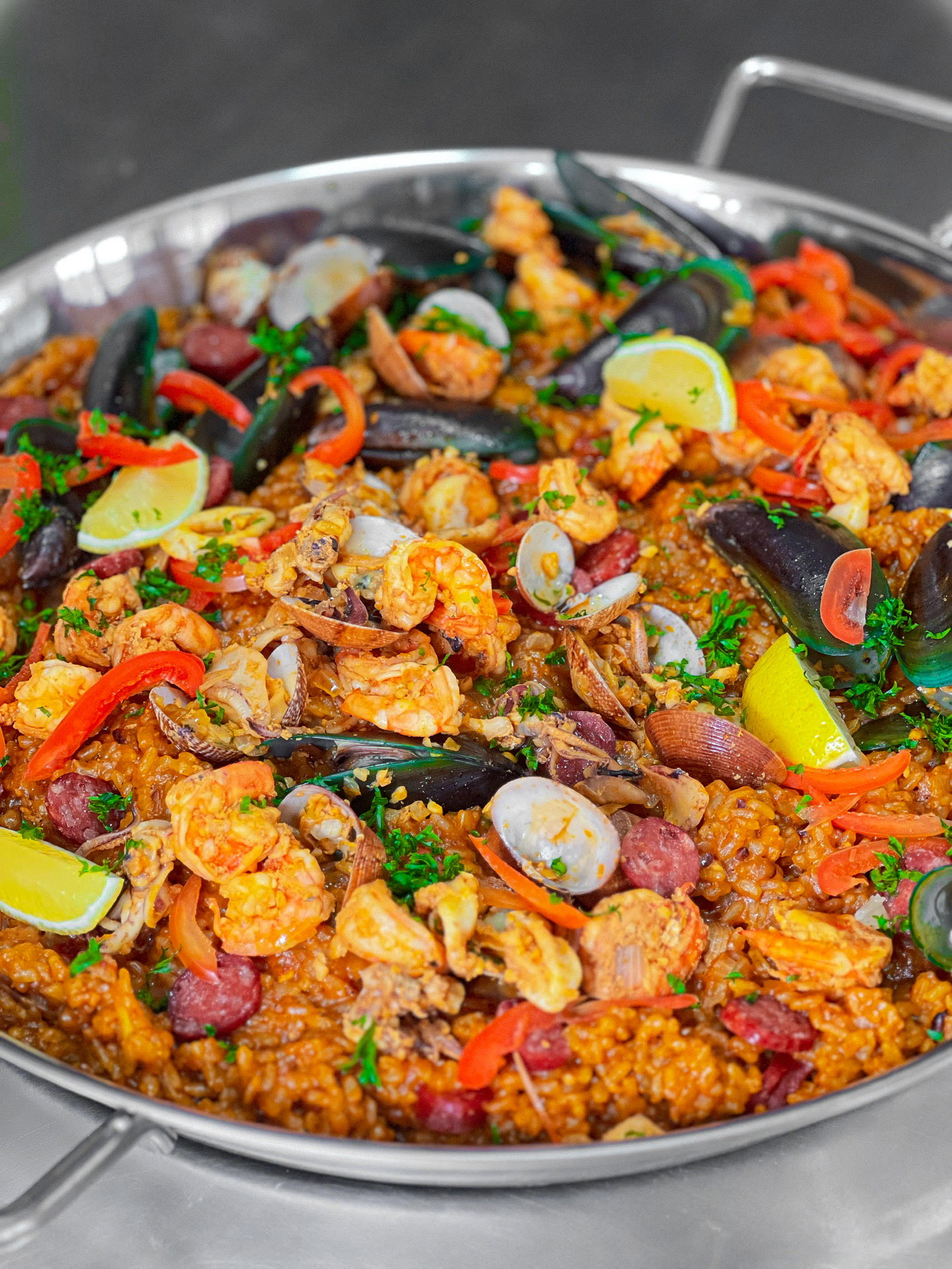
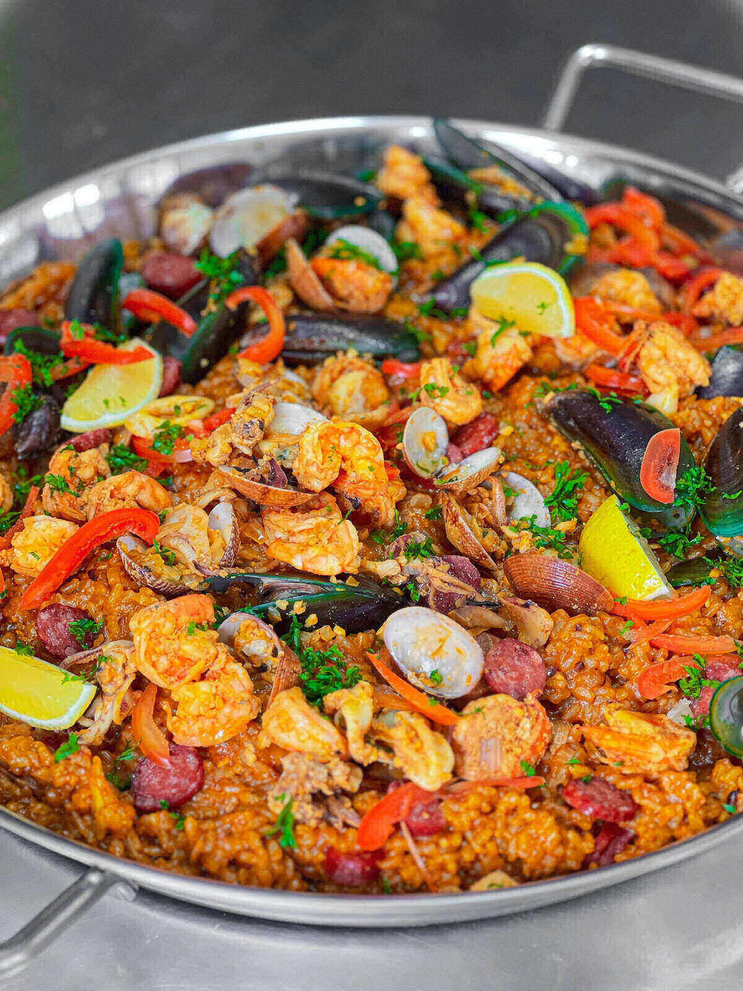
Publish approved site updates with compressed menu images.
Replace the large catering menu PNGs with JPEG and WebP, add the missing menu page image, and keep the splash button plus sticky Call, Messenger, Viber, and landline links.

diff --git a/catering.html b/catering.html
@@ -37,15 +37,47 @@ src="https://www.facebook.com/tr?id=8562493860536939&ev=PageView&noscript=1"
 </head>
 
 <body style="margin-bottom: 30px; background-color: black;">
+
+    <div class="quick-contact" style="position:sticky;top:0;z-index:100;background:#111;padding:12px 16px;display:flex;flex-wrap:wrap;gap:10px;justify-content:center;align-items:center;">
+        <a href="tel:+639093622192" style="display:inline-block;padding:10px 16px;background:#2e7d32;color:#fff;border-radius:6px;text-decoration:none;font-weight:700;font-family:Montserrat,sans-serif;font-size:14px;">Call 0909 362 2192</a>
+        <a href="https://m.me/boodiesbistro" target="_blank" rel="noopener" style="display:inline-block;padding:10px 16px;background:#0084ff;color:#fff;border-radius:6px;text-decoration:none;font-weight:700;font-family:Montserrat,sans-serif;font-size:14px;">Message on Messenger</a>
+        <a href="viber://chat?number=%2B639691693007" style="display:inline-block;padding:10px 16px;background:#7360f2;color:#fff;border-radius:6px;text-decoration:none;font-weight:700;font-family:Montserrat,sans-serif;font-size:14px;">Viber 0969 169 3007</a>
+        <a href="tel:+63344458462" style="display:inline-block;padding:10px 16px;background:#444;color:#fff;border-radius:6px;text-decoration:none;font-weight:600;font-family:Montserrat,sans-serif;font-size:13px;">Landline 034-4458462</a>
+    </div>
+
     <div class="image-container">
-        <img style="padding: 40px; max-width: 100%;" src="cateringmenu/page1.png" alt="Menu">
-        <img style="padding: 40px; max-width: 100%;" src="cateringmenu/page2.png" alt="Menu">
-		<img style="padding: 40px; max-width: 100%;" src="cateringmenu/page3.png" alt="Menu">
-        <img style="padding: 40px; max-width: 100%;" src="cateringmenu/page4.png" alt="Menu">
-        <img style="padding: 40px; max-width: 100%;" src="cateringmenu/page5.png" alt="Menu">
-        <img style="padding: 40px; max-width: 100%;" src="cateringmenu/page6.png" alt="Menu">
-        <img style="padding: 40px; max-width: 100%;" src="cateringmenu/page7.png" alt="Menu">
-        <img style="padding: 40px; max-width: 100%;" src="cateringmenu/page8.png" alt="Menu">
+        <picture>
+            <source srcset="cateringmenu/page1.webp" type="image/webp">
+            <img style="padding: 40px; max-width: 100%;" src="cateringmenu/page1.jpg" alt="Catering Menu" loading="lazy">
+        </picture>
+        <picture>
+            <source srcset="cateringmenu/page2.webp" type="image/webp">
+            <img style="padding: 40px; max-width: 100%;" src="cateringmenu/page2.jpg" alt="Catering Menu" loading="lazy">
+        </picture>
+        <picture>
+            <source srcset="cateringmenu/page3.webp" type="image/webp">
+            <img style="padding: 40px; max-width: 100%;" src="cateringmenu/page3.jpg" alt="Catering Menu" loading="lazy">
+        </picture>
+        <picture>
+            <source srcset="cateringmenu/page4.webp" type="image/webp">
+            <img style="padding: 40px; max-width: 100%;" src="cateringmenu/page4.jpg" alt="Catering Menu" loading="lazy">
+        </picture>
+        <picture>
+            <source srcset="cateringmenu/page5.webp" type="image/webp">
+            <img style="padding: 40px; max-width: 100%;" src="cateringmenu/page5.jpg" alt="Catering Menu" loading="lazy">
+        </picture>
+        <picture>
+            <source srcset="cateringmenu/page6.webp" type="image/webp">
+            <img style="padding: 40px; max-width: 100%;" src="cateringmenu/page6.jpg" alt="Catering Menu" loading="lazy">
+        </picture>
+        <picture>
+            <source srcset="cateringmenu/page7.webp" type="image/webp">
+            <img style="padding: 40px; max-width: 100%;" src="cateringmenu/page7.jpg" alt="Catering Menu" loading="lazy">
+        </picture>
+        <picture>
+            <source srcset="cateringmenu/page8.webp" type="image/webp">
+            <img style="padding: 40px; max-width: 100%;" src="cateringmenu/page8.jpg" alt="Catering Menu" loading="lazy">
+        </picture>
     </div>
 
     <!-- Footer -->
@@ -61,7 +93,7 @@ src="https://www.facebook.com/tr?id=8562493860536939&ev=PageView&noscript=1"
             <div class="copyright">
                 <h3>Our Socials</h3>
                 <ul class="icons">
-                    <li><a href="#" class="icon fa-twitter"><span class="label">Twitter</span></a></li>
+                    
                     <li><a href="https://facebook.com/boodiesbistro" class="icon fa-facebook"><span class="label">Facebook</span></a></li>
                     <li><a href="https://instagram.com/boodiesbistro" class="icon fa-instagram"><span class="label">Instagram</span></a></li>
                 </ul>

diff --git a/index.html b/index.html
@@ -39,58 +39,58 @@ src="https://www.facebook.com/tr?id=8562493860536939&ev=PageView&noscript=1"
 
 						<!-- Column 1 (horizontal, vertical, horizontal, vertical) -->
 							<div class="image fit">
-								<a><img src="pics/4.jpg" alt="" width="800" height="533"></a>
+								<a href="menu.html"><img src="pics/4.jpg" alt="" width="800" height="533"></a>
 							</div>
 							<div class="image fit">
-								<a><img src="pics/2.jpg" alt="" width="533" height="800"></a>
+								<a href="menu.html"><img src="pics/2.jpg" alt="" width="533" height="800"></a>
 							</div>
 							<div class="image fit">
-								<a><img src="pics/seafood2.jpg" alt="" width="800" height="533"></a>
+								<a href="menu.html"><img src="pics/seafood2.jpg" alt="" width="800" height="533"></a>
 							</div>
 							<div class="image fit">
-								<a><img src="pics/8.jpg" alt="" width="533" height="800"></a>
+								<a href="menu.html"><img src="pics/8.jpg" alt="" width="533" height="800"></a>
 							</div>
 
 						<!-- Column 2 (vertical, horizontal, vertical, horizontal) -->
 							<div class="image fit">
-								<a><img src="pics/steak.jpg" alt="" width="533" height="800"></a>
+								<a href="menu.html"><img src="pics/steak.jpg" alt="" width="533" height="800"></a>
 							</div>
 							<div class="image fit">
-								<a><img src="pics/10.jpg" alt="" width="800" height="533"></a>
+								<a href="menu.html"><img src="pics/10.jpg" alt="" width="800" height="533"></a>
 							</div>
 							<div class="image fit">
-								<a><img src="pics/5.jpg" alt="" width="533" height="800"></a>
+								<a href="menu.html"><img src="pics/5.jpg" alt="" width="533" height="800"></a>
 							</div>
 							<div class="image fit">
-								<a><img src="pics/resto1.jpg" alt="" width="800" height="533"></a>
+								<a href="menu.html"><img src="pics/resto1.jpg" alt="" width="800" height="533"></a>
 							</div>
 
 						<!-- Column 3 (horizontal, vertical, horizontal, vertical) -->
 							<div class="image fit">
-								<a><img src="pics/7.jpg" alt="" width="800" height="533"></a>
+								<a href="menu.html"><img src="pics/7.jpg" alt="" width="800" height="533"></a>
 							</div>
 							<div class="image fit">
-								<a><img src="pics/halaya.jpg" alt="" width="533" height="800"></a>
+								<a href="menu.html"><img src="pics/halaya.jpg" alt="" width="533" height="800"></a>
 							</div>
 							<div class="image fit">
-								<a><img src="pics/seafood1.jpg" alt="" width="800" height="533"></a>
+								<a href="menu.html"><img src="pics/seafood1.jpg" alt="" width="800" height="533"></a>
 							</div>
 							<div class="image fit">
-								<a><img src="pics/1.jpg" alt="" width="533" height="800"></a>
+								<a href="menu.html"><img src="pics/1.jpg" alt="" width="533" height="800"></a>
 							</div>
 
 						<!-- Column 4 (vertical, horizontal, vertical, horizontal) -->
 							<div class="image fit">
-								<a><img src="pics/6.jpg" alt="" width="533" height="800"></a>
+								<a href="menu.html"><img src="pics/6.jpg" alt="" width="533" height="800"></a>
 							</div>
 							<div class="image fit">
-								<a><img src="pics/11.jpg" alt="" width="800" height="533"></a>
+								<a href="menu.html"><img src="pics/11.jpg" alt="" width="800" height="533"></a>
 							</div>
 							<div class="image fit">
-								<a><img src="pics/3.jpg" alt="" width="533" height="800"></a>
+								<a href="menu.html"><img src="pics/3.jpg" alt="" width="533" height="800"></a>
 							</div>
 							<div class="image fit">
-								<a><img src="pics/cater.jpg" alt="" width="800" height="533"></a>
+								<a href="menu.html"><img src="pics/cater.jpg" alt="" width="800" height="533"></a>
 							</div>
 
 					</div>
@@ -110,7 +110,7 @@ src="https://www.facebook.com/tr?id=8562493860536939&ev=PageView&noscript=1"
 					</div>
 					<div class="copyright">
 						<h3>Our Socials</h3>
-						<ul class="icons"><li><a href="#" class="icon fa-twitter"><span class="label">Twitter</span></a></li>
+						<ul class="icons">
 							<li><a href="https://facebook.com/boodiesbistro" class="icon fa-facebook"><span class="label">Facebook</span></a></li>
 							<li><a href="https://instagram.com/boodiesbistro" class="icon fa-instagram"><span class="label">Instagram</span></a></li>
 						

diff --git a/menu.html b/menu.html
@@ -32,12 +32,35 @@ src="https://www.facebook.com/tr?id=8562493860536939&ev=PageView&noscript=1"
 </head>
 
 <body style="margin-bottom: 30px; background-color: black;">
+
+    <div class="quick-contact" style="position:sticky;top:0;z-index:100;background:#111;padding:12px 16px;display:flex;flex-wrap:wrap;gap:10px;justify-content:center;align-items:center;">
+        <a href="tel:+639093622192" style="display:inline-block;padding:10px 16px;background:#2e7d32;color:#fff;border-radius:6px;text-decoration:none;font-weight:700;font-family:Montserrat,sans-serif;font-size:14px;">Call 0909 362 2192</a>
+        <a href="https://m.me/boodiesbistro" target="_blank" rel="noopener" style="display:inline-block;padding:10px 16px;background:#0084ff;color:#fff;border-radius:6px;text-decoration:none;font-weight:700;font-family:Montserrat,sans-serif;font-size:14px;">Message on Messenger</a>
+        <a href="viber://chat?number=%2B639691693007" style="display:inline-block;padding:10px 16px;background:#7360f2;color:#fff;border-radius:6px;text-decoration:none;font-weight:700;font-family:Montserrat,sans-serif;font-size:14px;">Viber 0969 169 3007</a>
+        <a href="tel:+63344458462" style="display:inline-block;padding:10px 16px;background:#444;color:#fff;border-radius:6px;text-decoration:none;font-weight:600;font-family:Montserrat,sans-serif;font-size:13px;">Landline 034-4458462</a>
+    </div>
+
     <div class="image-container">
-        <img style="padding: 40px; max-width: 100%;" src="pics/newm11.jpg" alt="Menu">
-        <img style="padding: 40px; max-width: 100%;" src="pics/newm22.jpg" alt="Menu">
-        <img style="padding: 40px; max-width: 100%;" src="pics/newm33.jpg" alt="Menu">
-        <img style="padding: 40px; max-width: 100%;" src="pics/newm44.jpg" alt="Menu">
-        <img style="padding: 40px; max-width: 100%;" src="pics/newm55.jpg" alt="Menu">
+        <picture>
+            <source srcset="pics/newm11.webp" type="image/webp">
+            <img style="padding: 40px; max-width: 100%;" src="pics/newm11.jpg" alt="Menu" loading="lazy">
+        </picture>
+        <picture>
+            <source srcset="pics/newm22.webp" type="image/webp">
+            <img style="padding: 40px; max-width: 100%;" src="pics/newm22.jpg" alt="Menu" loading="lazy">
+        </picture>
+        <picture>
+            <source srcset="pics/newm33.webp" type="image/webp">
+            <img style="padding: 40px; max-width: 100%;" src="pics/newm33.jpg" alt="Menu" loading="lazy">
+        </picture>
+        <picture>
+            <source srcset="pics/newm44.webp" type="image/webp">
+            <img style="padding: 40px; max-width: 100%;" src="pics/newm44.jpg" alt="Menu" loading="lazy">
+        </picture>
+        <picture>
+            <source srcset="pics/newm55.webp" type="image/webp">
+            <img style="padding: 40px; max-width: 100%;" src="pics/newm55.jpg" alt="Menu" loading="lazy">
+        </picture>
     </div>
 
     <!-- Footer -->
@@ -53,7 +76,7 @@ src="https://www.facebook.com/tr?id=8562493860536939&ev=PageView&noscript=1"
             <div class="copyright">
                 <h3>Our Socials</h3>
                 <ul class="icons">
-                    <li><a href="#" class="icon fa-twitter"><span class="label">Twitter</span></a></li>
+                    
                     <li><a href="https://facebook.com/boodiesbistro" class="icon fa-facebook"><span class="label">Facebook</span></a></li>
                     <li><a href="https://instagram.com/boodiesbistro" class="icon fa-instagram"><span class="label">Instagram</span></a></li>
                 </ul>

diff --git a/contact.html b/contact.html
@@ -47,12 +47,14 @@
 <body>
   <div class="maindiv" style="width: 50%;margin: auto;margin-bottom: 400px;">
     <h2>You may contact us through the following:</h2>
-    <h1><a href="https://facebook.com/boodiesbistro" class="facebook-button" target="_blank">
+    <h1><a href="https://m.me/boodiesbistro" class="facebook-button" target="_blank" rel="noopener">
+      Message on Messenger</a></h1>
+    <h1><a href="https://facebook.com/boodiesbistro" class="facebook-button" target="_blank" rel="noopener" style="background-color:#2e66af;">
       Facebook Page</a></h1>
-   
-    <h1>Landline: 034-4458462</h1>
-    <h1>Mobile Number: 09093622192</h1>
-    <h1>Email Address: info@boodies.net</h1>
+    <h1><a href="tel:+639093622192">Mobile: 0909 362 2192</a></h1>
+    <h1><a href="viber://chat?number=%2B639691693007">Viber: 0969 169 3007</a></h1>
+    <h1><a href="tel:+63344458462">Landline: 034-4458462</a></h1>
+    <h1><a href="mailto:info@boodies.net">Email: info@boodies.net</a></h1>
   </div>
 
 
@@ -69,7 +71,7 @@
     </div>
     <div class="copyright">
       <h3>Our Socials</h3>
-      <ul class="icons"><li><a href="#" class="icon fa-twitter"><span class="label">Twitter</span></a></li>
+      <ul class="icons">
         <li><a href="https://facebook.com/boodiesbistro" class="icon fa-facebook"><span class="label">Facebook</span></a></li>
         <li><a href="https://instagram.com/boodiesbistro" class="icon fa-instagram"><span class="label">Instagram</span></a></li>
       

diff --git a/portfolio.html b/portfolio.html
@@ -239,8 +239,7 @@ src="https://www.facebook.com/tr?id=8562493860536939&ev=PageView&noscript=1"
 					</div>
 					<div class="copyright">
 						<h3>Our Socials</h3>
-						<ul class="icons"><li><a href="#" class="icon fa-twitter"><span class="label">Twitter</span></a></li>
-							<li><a href="https://facebook.com/boodiesbistro" class="icon fa-facebook"><span class="label">Facebook</span></a></li>
+						<ul class="icons"><li><a href="https://facebook.com/boodiesbistro" class="icon fa-facebook"><span class="label">Facebook</span></a></li>
 							<li><a href="https://instagram.com/boodiesbistro" class="icon fa-instagram"><span class="label">Instagram</span></a></li>
 						
 						</ul></div>
